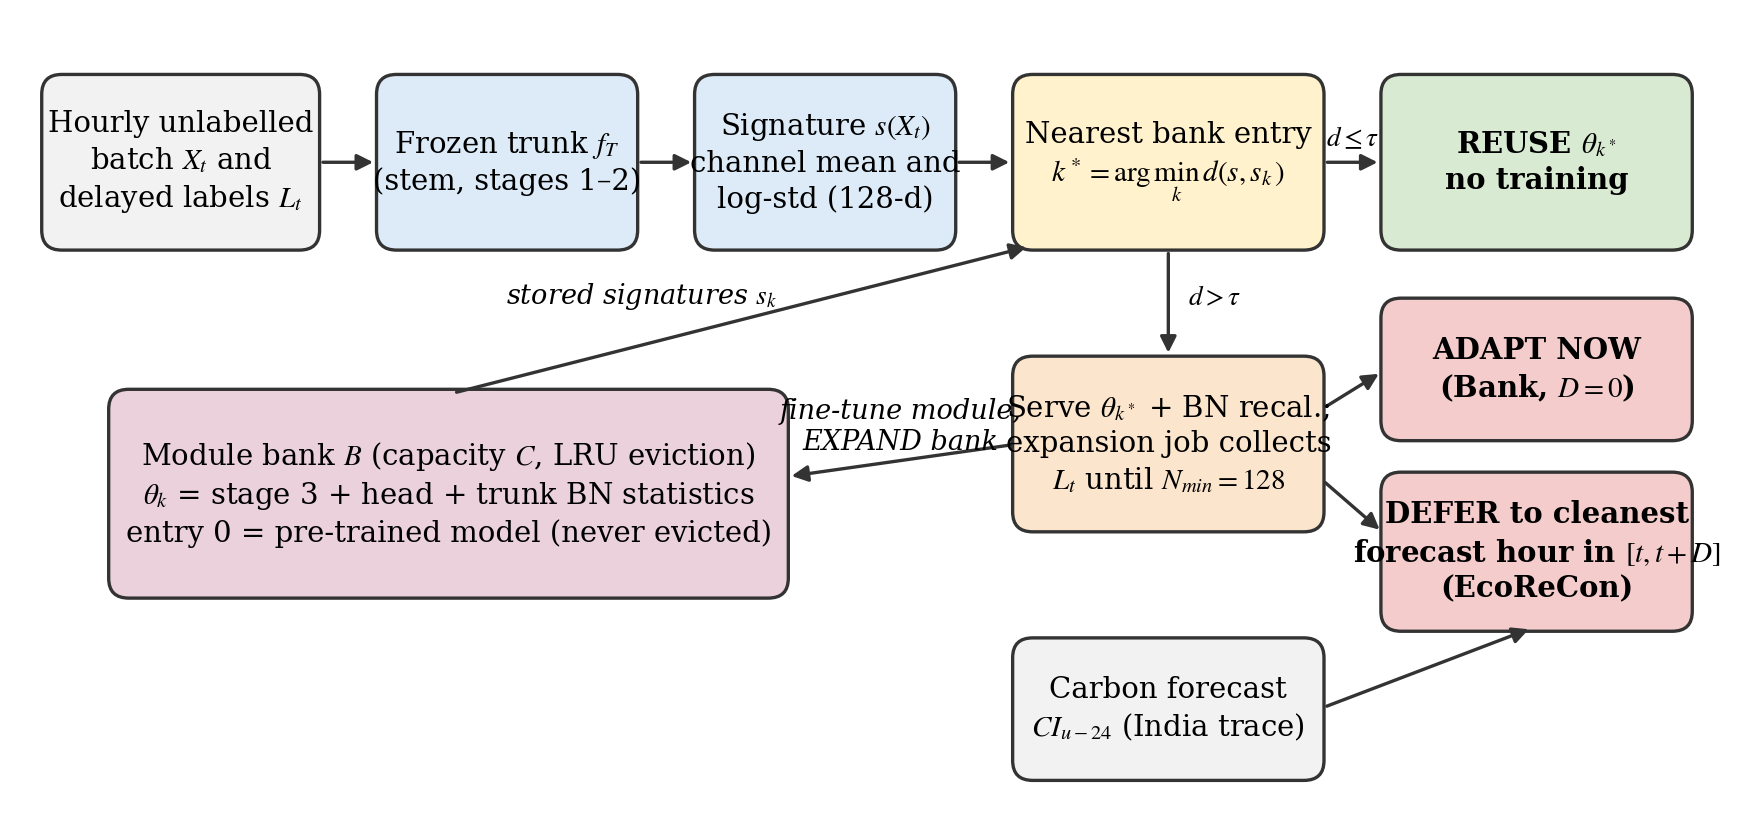
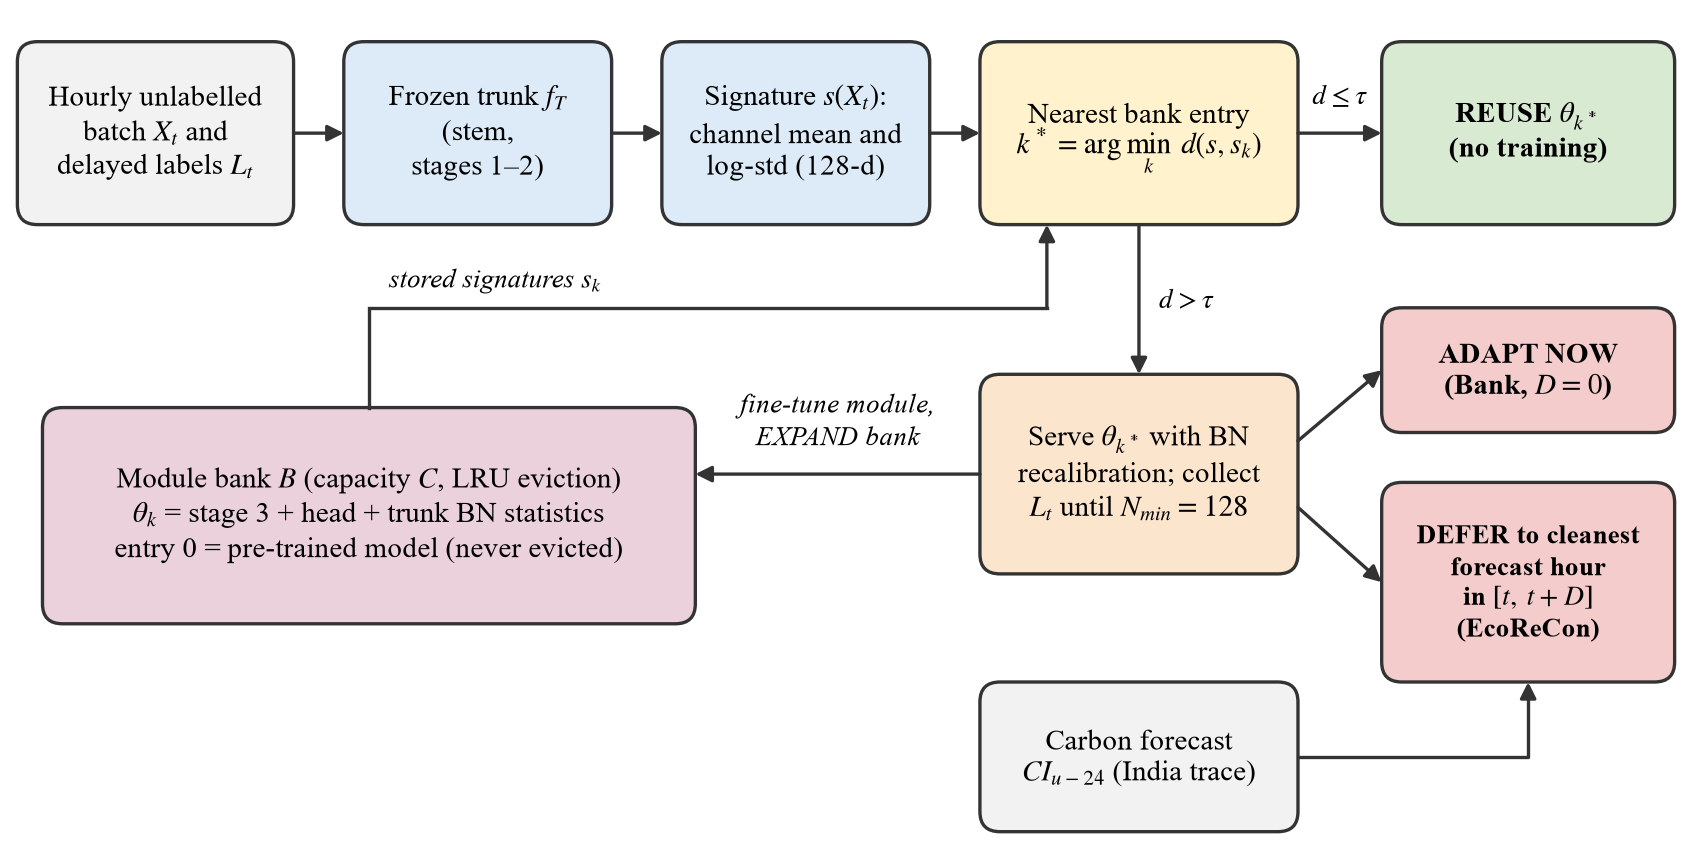
Redraw Fig. 1 so no label overlaps its box; add a text-fits-box check

Changed region(s): [[0.0, 0.0304, 1.0, 0.8516], [0.5532, 0.7603, 0.922, 1.0]]

diff --git a/fig1_diagram.py b/fig1_diagram.py
@@ -1,4 +1,8 @@
-"""Fig. 1: EcoReCon-AI controller diagram."""
+"""Fig. 1: EcoReCon-AI controller diagram.
+
+Every box label is measured after drawing; the script stops if any text
+extends past its box, so overlaps cannot slip into the figure unnoticed.
+"""
 import os
 import matplotlib
 matplotlib.use("Agg")
@@ -7,37 +11,90 @@ from matplotlib.patches import FancyBboxPatch, FancyArrowPatch
 
 plt.rcParams.update({"font.family": "serif", "font.serif": ["Times New Roman", "DejaVu Serif"], "font.size": 7,
                      "mathtext.fontset": "stix"})
-fig, ax = plt.subplots(figsize=(7.2, 3.3)); ax.set_xlim(0, 100); ax.set_ylim(0, 46); ax.axis("off")
+fig, ax = plt.subplots(figsize=(7.2, 3.6)); ax.set_xlim(0, 100); ax.set_ylim(0, 50); ax.axis("off")
+fig.canvas.draw()
+
+EDGE = "#333333"
+boxes = []  # (patch extent in data units, text artist)
 
 
-def box(x, y, w, h, txt, fc="#FFFFFF", bold=False):
-    ax.add_patch(FancyBboxPatch((x, y), w, h, boxstyle="round,pad=0.3,rounding_size=1.2", fc=fc, ec="#333333", lw=0.8))
-    ax.text(x + w / 2, y + h / 2, txt, ha="center", va="center", fontweight="bold" if bold else "normal", linespacing=1.3)
+def box(x, y, w, h, txt, fc="#FFFFFF", bold=False, fs=7):
+    ax.add_patch(FancyBboxPatch((x, y), w, h, boxstyle="round,pad=0,rounding_size=1.2",
+                                fc=fc, ec=EDGE, lw=0.8))
+    t = ax.text(x + w / 2, y + h / 2, txt, ha="center", va="center", fontsize=fs,
+                fontweight="bold" if bold else "normal", linespacing=1.3)
+    boxes.append(((x, y, w, h), t, txt))
+    return dict(l=x, r=x + w, b=y, t=y + h, cx=x + w / 2, cy=y + h / 2)
 
 
-def arr(x0, y0, x1, y1, txt=None, ox=0, oy=1.0, ha="center"):
-    ax.add_patch(FancyArrowPatch((x0, y0), (x1, y1), arrowstyle="-|>", mutation_scale=8, lw=0.8, color="#333333"))
-    if txt: ax.text((x0 + x1) / 2 + ox, (y0 + y1) / 2 + oy, txt, ha=ha, va="bottom", fontsize=6.5, style="italic")
+def arr(p0, p1, conn="arc3"):
+    ax.add_patch(FancyArrowPatch(p0, p1, arrowstyle="-|>", mutation_scale=8, lw=0.8, color=EDGE,
+                                 connectionstyle=conn, shrinkA=0, shrinkB=0))
 
 
-Y = 33; H = 10
-box(1, Y, 16, H, "Hourly unlabelled\nbatch $X_t$ and\ndelayed labels $L_t$", fc="#F2F2F2")
-box(21, Y, 15, H, "Frozen trunk $f_T$\n(stem, stages 1–2)", fc="#DCEBF7")
-box(40, Y, 15, H, "Signature $s(X_t)$\nchannel mean and\nlog-std (128-d)", fc="#DCEBF7")
-box(59, Y, 18, H, "Nearest bank entry\n$k^*=\\arg\\min_k\\, d(s, s_k)$", fc="#FFF2CC")
-box(81, Y, 18, H, "REUSE $\\theta_{k^*}$\nno training", fc="#D9EAD3", bold=True)
-box(59, 16, 18, 10, "Serve $\\theta_{k^*}$ + BN recal.;\nexpansion job collects\n$L_t$ until $N_{min}=128$", fc="#FCE5CD")
-box(81, 21.5, 18, 8, "ADAPT NOW\n(Bank, $D=0$)", fc="#F4CCCC", bold=True)
-box(81, 10, 18, 9, "DEFER to cleanest\nforecast hour in $[t, t+D]$\n(EcoReCon)", fc="#F4CCCC", bold=True)
-box(59, 1, 18, 8, "Carbon forecast\n$CI_{u-24}$ (India trace)", fc="#F2F2F2")
-box(5, 12, 40, 12, "Module bank $B$ (capacity $C$, LRU eviction)\n$\\theta_k$ = stage 3 + head + trunk BN statistics\nentry 0 = pre-trained model (never evicted)", fc="#EAD1DC")
-arr(17, Y + H / 2, 21, Y + H / 2); arr(36, Y + H / 2, 40, Y + H / 2); arr(55, Y + H / 2, 59, Y + H / 2)
-arr(77, Y + H / 2, 81, Y + H / 2, "$d\\leq\\tau$", oy=0.6)
-arr(68, Y, 68, 26, "$d>\\tau$", ox=1.2, oy=-0.5, ha="left")
-arr(77, 23, 81, 25.5); arr(77, 19, 81, 15.5)
-arr(77, 5, 90, 10)
-arr(59, 21, 45, 19, "fine-tune module,\nEXPAND bank", oy=0.3)
-arr(25, 24, 60, 33, "stored signatures $s_k$", ox=-6, oy=0.5)
+def label(x, y, txt, ha="center", va="center"):
+    ax.text(x, y, txt, ha=ha, va=va, fontsize=6.5, style="italic", linespacing=1.2)
+
+
+# Row 1: hourly pipeline
+Y, H = 37, 11
+inp = box(0.5, Y, 16.5, H, "Hourly unlabelled\nbatch $X_t$ and\ndelayed labels $L_t$", fc="#F2F2F2")
+trk = box(20, Y, 16, H, "Frozen trunk $f_T$\n(stem,\nstages 1–2)", fc="#DCEBF7")
+sig = box(39, Y, 16, H, "Signature $s(X_t)$:\nchannel mean and\nlog-std (128-d)", fc="#DCEBF7")
+nb = box(58, Y, 19, H, "Nearest bank entry\n$k^*=\\arg\\min_k\\, d(s, s_k)$", fc="#FFF2CC")
+reu = box(82, Y, 17.5, H, "REUSE $\\theta_{k^*}$\n(no training)", fc="#D9EAD3", bold=True)
+
+# Row 2: new-context path
+srv = box(58, 16, 19, 12, "Serve $\\theta_{k^*}$ with BN\nrecalibration; collect\n$L_t$ until $N_{min}=128$", fc="#FCE5CD")
+ada = box(82, 24.5, 17.5, 7.5, "ADAPT NOW\n(Bank, $D=0$)", fc="#F4CCCC", bold=True)
+dfr = box(82, 9.5, 17.5, 12, "DEFER to cleanest\nforecast hour\nin $[t,\\, t+D]$\n(EcoReCon)", fc="#F4CCCC", bold=True, fs=6.6)
+car = box(58, 0.5, 19, 9, "Carbon forecast\n$CI_{u-24}$ (India trace)", fc="#F2F2F2")
+bank = box(2, 13, 39, 13, "Module bank $B$ (capacity $C$, LRU eviction)\n"
+                         "$\\theta_k$ = stage 3 + head + trunk BN statistics\n"
+                         "entry 0 = pre-trained model (never evicted)", fc="#EAD1DC")
+
+# Arrows along row 1
+arr((inp["r"], inp["cy"]), (trk["l"], trk["cy"]))
+arr((trk["r"], trk["cy"]), (sig["l"], sig["cy"]))
+arr((sig["r"], sig["cy"]), (nb["l"], nb["cy"]))
+arr((nb["r"], nb["cy"]), (reu["l"], reu["cy"]))
+label((nb["r"] + reu["l"]) / 2, nb["cy"] + 2.2, "$d\\leq\\tau$")
+
+# New context: nearest entry -> serve
+arr((nb["cx"], nb["b"]), (srv["cx"], srv["t"]))
+label(nb["cx"] + 1.2, (nb["b"] + srv["t"]) / 2, "$d>\\tau$", ha="left")
+
+# Serve -> ADAPT NOW / DEFER
+arr((srv["r"], srv["cy"] + 2), (ada["l"], ada["cy"]))
+arr((srv["r"], srv["cy"] - 2), (dfr["l"], dfr["cy"]))
+
+# Carbon forecast feeds the DEFER decision
+arr((car["r"], car["cy"]), (dfr["cx"], dfr["b"]), conn="angle,angleA=0,angleB=90,rad=0")
+
+# Fine-tuned module goes into the bank
+arr((srv["l"], srv["cy"]), (bank["r"], srv["cy"]))
+label((bank["r"] + srv["l"]) / 2, srv["cy"] + 3.2, "fine-tune module,\nEXPAND bank")
+
+# Stored signatures feed the nearest-entry search (routed under row 1)
+gy = (Y + bank["t"]) / 2 + 0.5
+sx, ex = bank["cx"], nb["l"] + 4
+ax.plot([sx, sx, ex], [bank["t"], gy, gy], color=EDGE, lw=0.8, solid_joinstyle="miter")
+arr((ex, gy), (ex, nb["b"]))
+label(sx + 1.2, gy + 1.6, "stored signatures $s_k$", ha="left")
+
+# Overlap check: every label must sit inside its box with a small margin
+fig.canvas.draw()
+r = fig.canvas.get_renderer()
+inv = ax.transData.inverted()
+bad = []
+for (x, y, w, h), t, txt in boxes:
+    bb = t.get_window_extent(r)
+    (x0, y0), (x1, y1) = inv.transform([(bb.x0, bb.y0), (bb.x1, bb.y1)])
+    if x0 < x + 0.6 or x1 > x + w - 0.6 or y0 < y + 0.4 or y1 > y + h - 0.4:
+        bad.append(txt.splitlines()[0])
+if bad:
+    raise SystemExit(f"text does not fit in box: {bad}")
+
 out = os.path.join(os.path.dirname(os.path.abspath(__file__)), "figs"); os.makedirs(out, exist_ok=True)
-fig.savefig(os.path.join(out, "fig1_ecorecon.png"), dpi=300, bbox_inches="tight")
-print("ok")
+fig.savefig(os.path.join(out, "fig1_ecorecon.png"), dpi=300, bbox_inches="tight", pad_inches=0.03)
+print("ok", matplotlib.font_manager.findfont("Times New Roman"))
